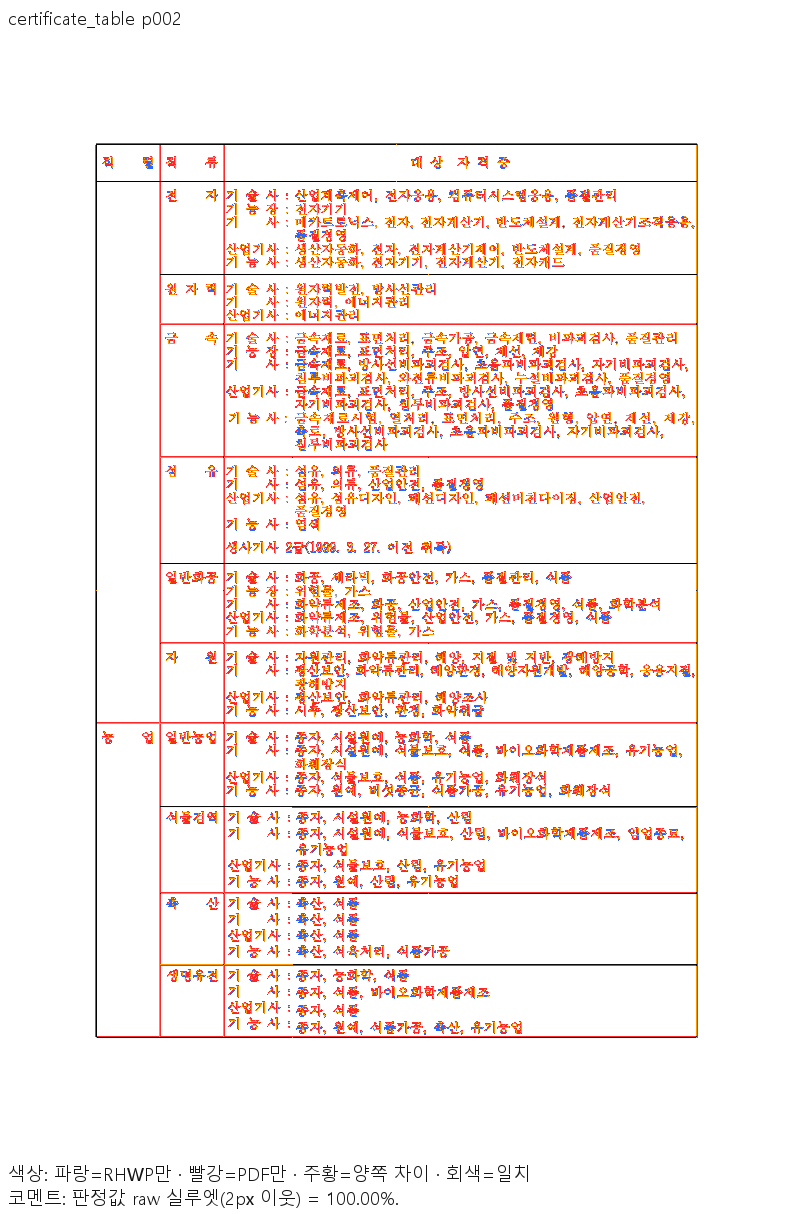
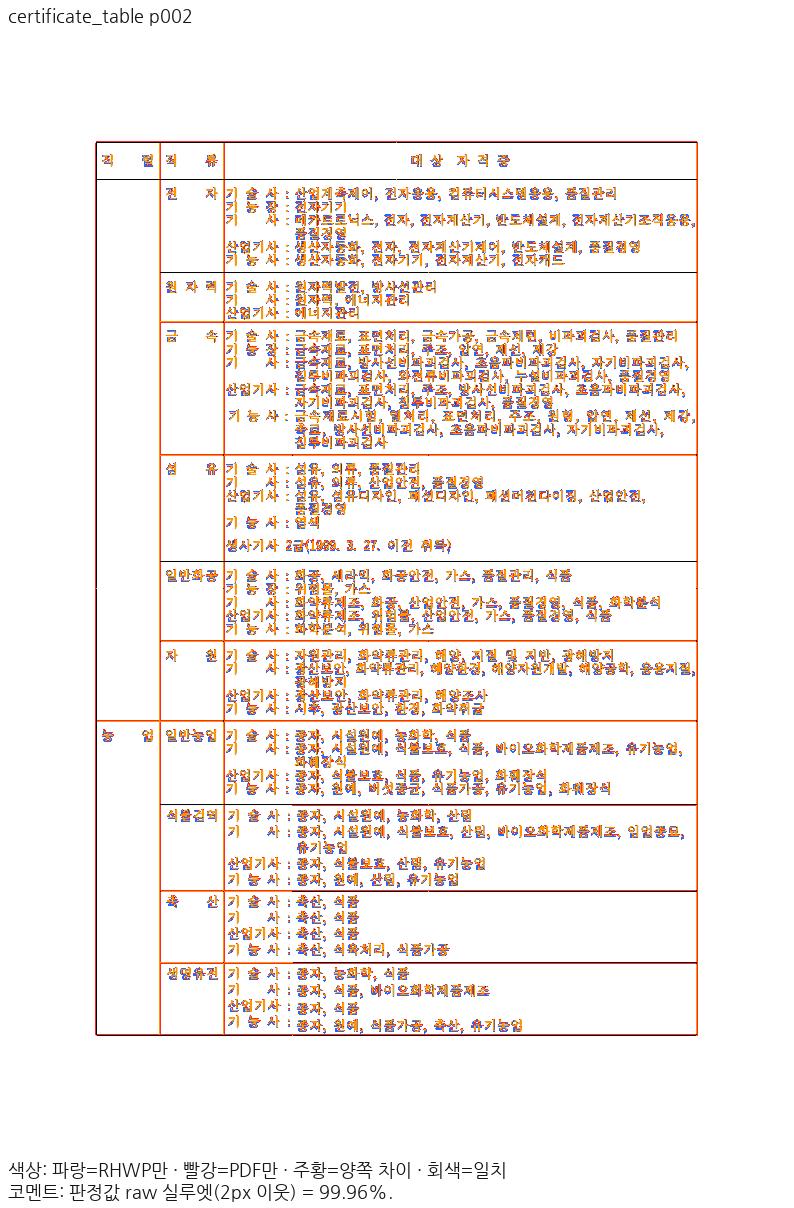
docs(#8596): 최신 devel rebase head 재측정 — base·head 전쪽 TSV, 대표 PNG, 편람 gate
(cherry picked from commit 013459bff4ff5313af53ece5646e79c48647a3aa)

Changed region(s): [[0.1209, 0.0919, 0.8766, 0.8576], [0.0, 0.9495, 0.665, 1.0], [0.0, 0.0, 0.2418, 0.0306]]

diff --git a/tests/cases/issue_8596_tac_host_stored_frame_rewind.rs b/tests/cases/issue_8596_tac_host_stored_frame_rewind.rs
@@ -2,7 +2,8 @@
 //! 자리차지 표 프레임은 같은 쪽의 프레임이 아니다. 한/글은 vpos 를 되감아 그 표를 새 쪽에서
 //! 시작한다. 앞 TAC 표가 이미 끝난 뒤의 저장 원점은 흐름 커서가 조금 아래여도 같은 쪽에 둔다.
 //!
-//! 주석 갱신: 2026-11-04 22:34 (KST)
+//! 주석 갱신: 2026-11-05 20:08 (KST) — 직전 파일 변경 커밋 `032dcb80e3`(2026-11-05 18:44:11 +0900,
+//! devel `a95d1d5afa` rebase). 처음 작성: 2026-11-04 22:34 (KST).
 //!
 //! - 입력 1: `samples/issue8596/certificate_table.hwpx` — 부천시 지방공무원 인사 규칙
 //!   [별표 5의2] 경력경쟁임용 자격증 구분표(한컴 2020 저장, 공개 자치법규 원본 그대로).
@@ -18,22 +19,28 @@
 //!   조판 커서가 저장 원점보다 아래라 앞 표 종류와 무관하게 되돌림을 판정하면 넘어간다.
 //! - 독립 기준: 같은 입력의 한컴오피스 2022 Print PDF `pdf/issue8596_*-2020.pdf`
 //!   (입력 1: 9쪽, 입력 2: 14쪽, 입력 3: 2쪽).
-//! - 수정 전 rhwp(devel 7fdd5441ff): 입력 1 은 8쪽(2쪽에 문단 4·5 표가 같은 원점에 겹침),
-//!   입력 2 는 13쪽. 앞 표 종류만 넓힌 중간안은 입력 3 을 3쪽으로 만들었다.
+//! - 수정 전 rhwp(devel 7fdd5441ff, 그리고 rebase base `a95d1d5afa`): 입력 1 은 8쪽(2쪽에
+//!   문단 4·5 표가 같은 원점에 겹침), 입력 2 는 13쪽. 앞 표 종류만 넓힌 중간안은 입력 3 을
+//!   3쪽으로 만들었다.
 //!
-//! 측정(2026-11-04, `scripts/visual_sweep.py --silhouette-only --dpi 96`, 판정값
-//! `silhouette_raw_match_percent` = 색상 경계 보정 전 2px 이웃 내용 실루엣, 수정 head 코드):
+//! 측정(2026-11-05, macOS, `scripts/visual_sweep.py --silhouette-only --compat 2022 --dpi 96`,
+//! 판정값 `silhouette_raw_match_percent` = 색상 경계 보정 전 2px 이웃 내용 실루엣. Native 는 sweep
+//! 기본 웹폰트 공급, fresh WASM 은 `--font-path ttfs/opensource`. code head `032dcb80e3`):
 //!
 //! | 입력 | 전체 쪽수(한컴=rhwp) | Native 최저(쪽) | fresh WASM 최저(쪽) | 변경 쪽 Native / WASM |
 //! |---|---|---|---|---|
-//! | certificate_table | 9 | 99.98 (6) | 99.99 (6) | 2쪽 100.00 / 100.00, 3쪽 100.00 / 100.00 |
-//! | policy_committee_agenda | 14 | 95.19 (7) | 97.80 (7) | 10쪽 97.85 / 99.95, 11쪽 97.87 / 99.96 |
-//! | idol_goods_trimmed | 2 | 99.67 (1) | 99.70 (1) | 1쪽 99.67 / 99.70 |
+//! | certificate_table | 9 | 99.87 (7) | 99.96 (6) | 2쪽 99.96 / 100.00, 3쪽 99.96 / 100.00 |
+//! | policy_committee_agenda | 14 | 92.50 (7) | 95.51 (10) | 10쪽 93.49 / 95.51, 11쪽 96.87 / 99.20 |
+//! | idol_goods_trimmed | 2 | 99.50 (1) | 99.64 (1) | 1쪽 99.50 / 99.64 |
 //!
-//! 두 경로 전쪽 최저: 95.19(policy_committee_agenda 7쪽 Native). 수정 전 Native 는 입력 1 이
-//! 8쪽·입력 2 가 13쪽으로 한컴과 쪽수가 달라 쪽별 대조가 성립하지 않았다.
+//! 두 경로 전쪽 최저: 92.50(policy_committee_agenda 7쪽 Native). 이 쪽은 수정 전 base 와 값이
+//! 같아 이 변경의 영향 쪽이 아니다. 수정 전 base 는 입력 1 이 8쪽·입력 2 가 13쪽으로 한컴과
+//! 쪽수가 달라 쪽별 대조가 성립하지 않는다. rebase 전 code head `846f6cccf6` 를 같은 macOS 환경에서
+//! 측정한 값은 위 표와 전쪽 동일하다. 처음 기록(2026-11-04, Windows 측정, 입력 2 Native 최저 95.19)
+//! 과의 차이는 측정 환경의 글꼴 공급 차이다.
 //!
-//! 증거: `mydocs/pr/assets/issue_8596/{native,wasm}/*_silhouette.tsv`, `review/*.png`.
+//! 증거: `mydocs/pr/assets/issue_8596/{native,wasm}/*_silhouette.tsv`(head),
+//! `mydocs/pr/assets/issue_8596/base/{native,wasm}/*_silhouette.tsv`(base `a95d1d5afa`), `review/*.png`.
 //! 검사는 표의 쪽 소속·같은 쪽 표끼리 겹치지 않음·반례의 위아래 순서를 보는 관계형과,
 //! 독립 PDF 전체 쪽수를 고정하는 고정형이다. 절대 px 좌표는 고정하지 않는다.
 #![cfg(not(target_arch = "wasm32"))]
